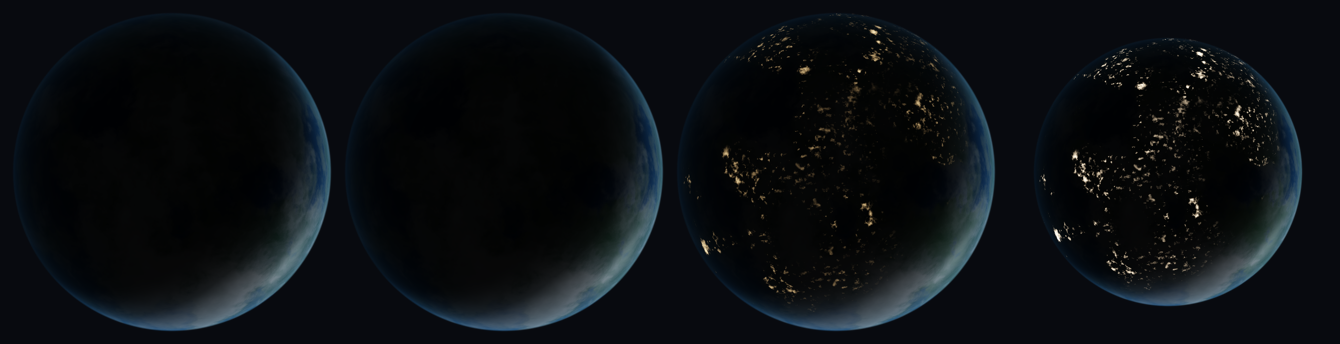
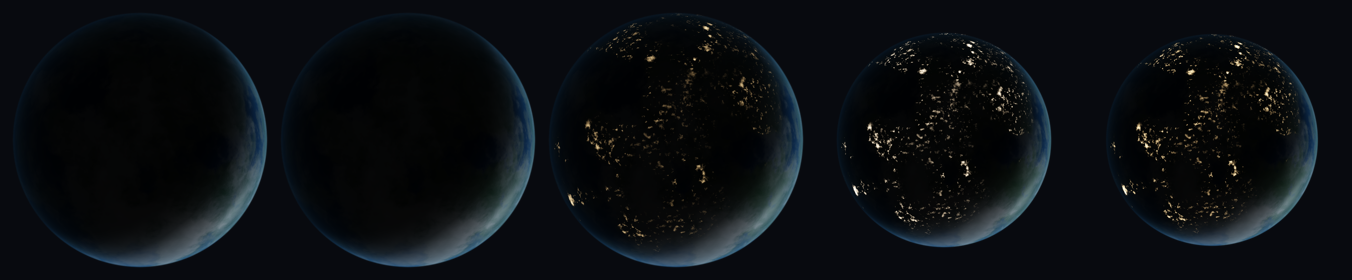
Say who is leaving
The README's life section grows the fifth level and says why launches are
seen from the limb; the changelog carries it under the life entry. life.png
is five columns now.

diff --git a/CHANGELOG.md b/CHANGELOG.md
@@ -20,7 +20,7 @@ Changing how the shader draws a given recipe is a minor version and is noted und
   through its phases. Zero holds the light still and is the default. It is a different thing
   from `rotationSpeed`, which turns the ground under a light that stays put; a world with
   both has ground that travels into its own night.
-- **`MoonletPlanetLife`** — four ordered levels, sterile by default, plus `palette.life`.
+- **`MoonletPlanetLife`** — five ordered levels, sterile by default, plus `palette.life`.
   - `.simple` builds nothing and lights nothing: land goes faintly green where it is low and
     wet. It shows in daylight, and it is the difference between Mars and a Mars with lichen.
   - `.complex` puts cities on the night side. Never on water, thinning inland because
@@ -34,12 +34,18 @@ Changing how the shader draws a given recipe is a minor version and is noted und
     a silhouette with a glint in it and a short trail behind, so over the disc it reads as a
     transit and over space as something moving, not as a lens flare.
 
+  - `.interplanetary` keeps all of that and adds traffic: now and then a shuttle lifts off
+    the limb in a gravity turn and climbs into orbit, or comes back down the same arc,
+    glowing. Seen in profile, because a launch from the middle of the disc climbs towards an
+    orthographic camera and does not move. Most cycles are quiet on purpose.
+
   Ice, life and lights all sit on ground, so a gas giant gets none of them.
 - **The stations are settings.** `stationCount`, `stationOrbitRadius`, `stationSpeed`,
   `stationInclination` and `stationSize`, defaulting to the one station a spacefaring world
   already flew. More than one share the orbit's radius, speed and inclination but not its
   plane or phase, so they do not read as beads on a string. Both workbenches have the sliders.
-- **`drawnExtent`** — how far from the disc's centre the shader draws, in planet radii. A
+- **`drawnExtent`** — how far from the disc's centre the shader draws, in planet radii —
+  rings, a station's orbit, or traffic climbing past the limb. A
   view that sizes the body against a square divides by it; it is the number the shader uses
   for its own framing, so the two cannot disagree.
 

diff --git a/README.md b/README.md
@@ -158,15 +158,15 @@ with it — Uranus is on its side and looks it.
 
 ## Life, if there is any
 
-![Sterile, simple life, a civilisation, and one that has left the ground](Documentation/life.png)
+![Sterile, simple life, a civilisation, one that has left the ground, and one that comes and goes](Documentation/life.png)
 
 ```swift
 var earth = MoonletPlanetPreset.earth.style!.recipe
-earth.life = .complex          // .none .simple .complex .advanced
+earth.life = .complex          // .none .simple .complex .advanced .interplanetary
 earth.dayNightSpeed = 0.25     // so there is a night for it to show on
 ```
 
-Four ordered levels, sterile by default, each the one before it plus something.
+Five ordered levels, sterile by default, each the one before it plus something.
 
 **`.simple`** is the one worth getting right. Nothing built and nothing lit — just land gone
 faintly green where it is low and wet, because that is where water collects. It is the
@@ -180,6 +180,15 @@ the towns between. A civilisation that has just learned to light its streets doe
 all of them, so this level reaches less far than the next.
 
 **`.advanced`** lights the rest of it and puts something in orbit.
+
+**`.interplanetary`** comes and goes. Now and then something lifts off the ground or comes
+back down to it: a bright point with a plume, up off the edge of the world in a gravity turn
+and over into orbit, or the same arc flown backwards and glowing hardest where the air is
+thick. Launches are seen from the limb, in profile, because the camera looks straight at the
+disc and a rocket climbing out of the middle of it climbs towards the lens and does not move
+on screen at all. Most cycles are quiet — a launch every few seconds is an airport, and what
+is wanted is the occasional one that makes somebody look twice. Which pad, which way and
+whether it is going up or coming down are the seed's, like the coastlines.
 
 The lights are emission added before the tonemap, so they bloom the way a bright thing does,
 and they come up through the last of the dusk rather than switching on at the terminator.
